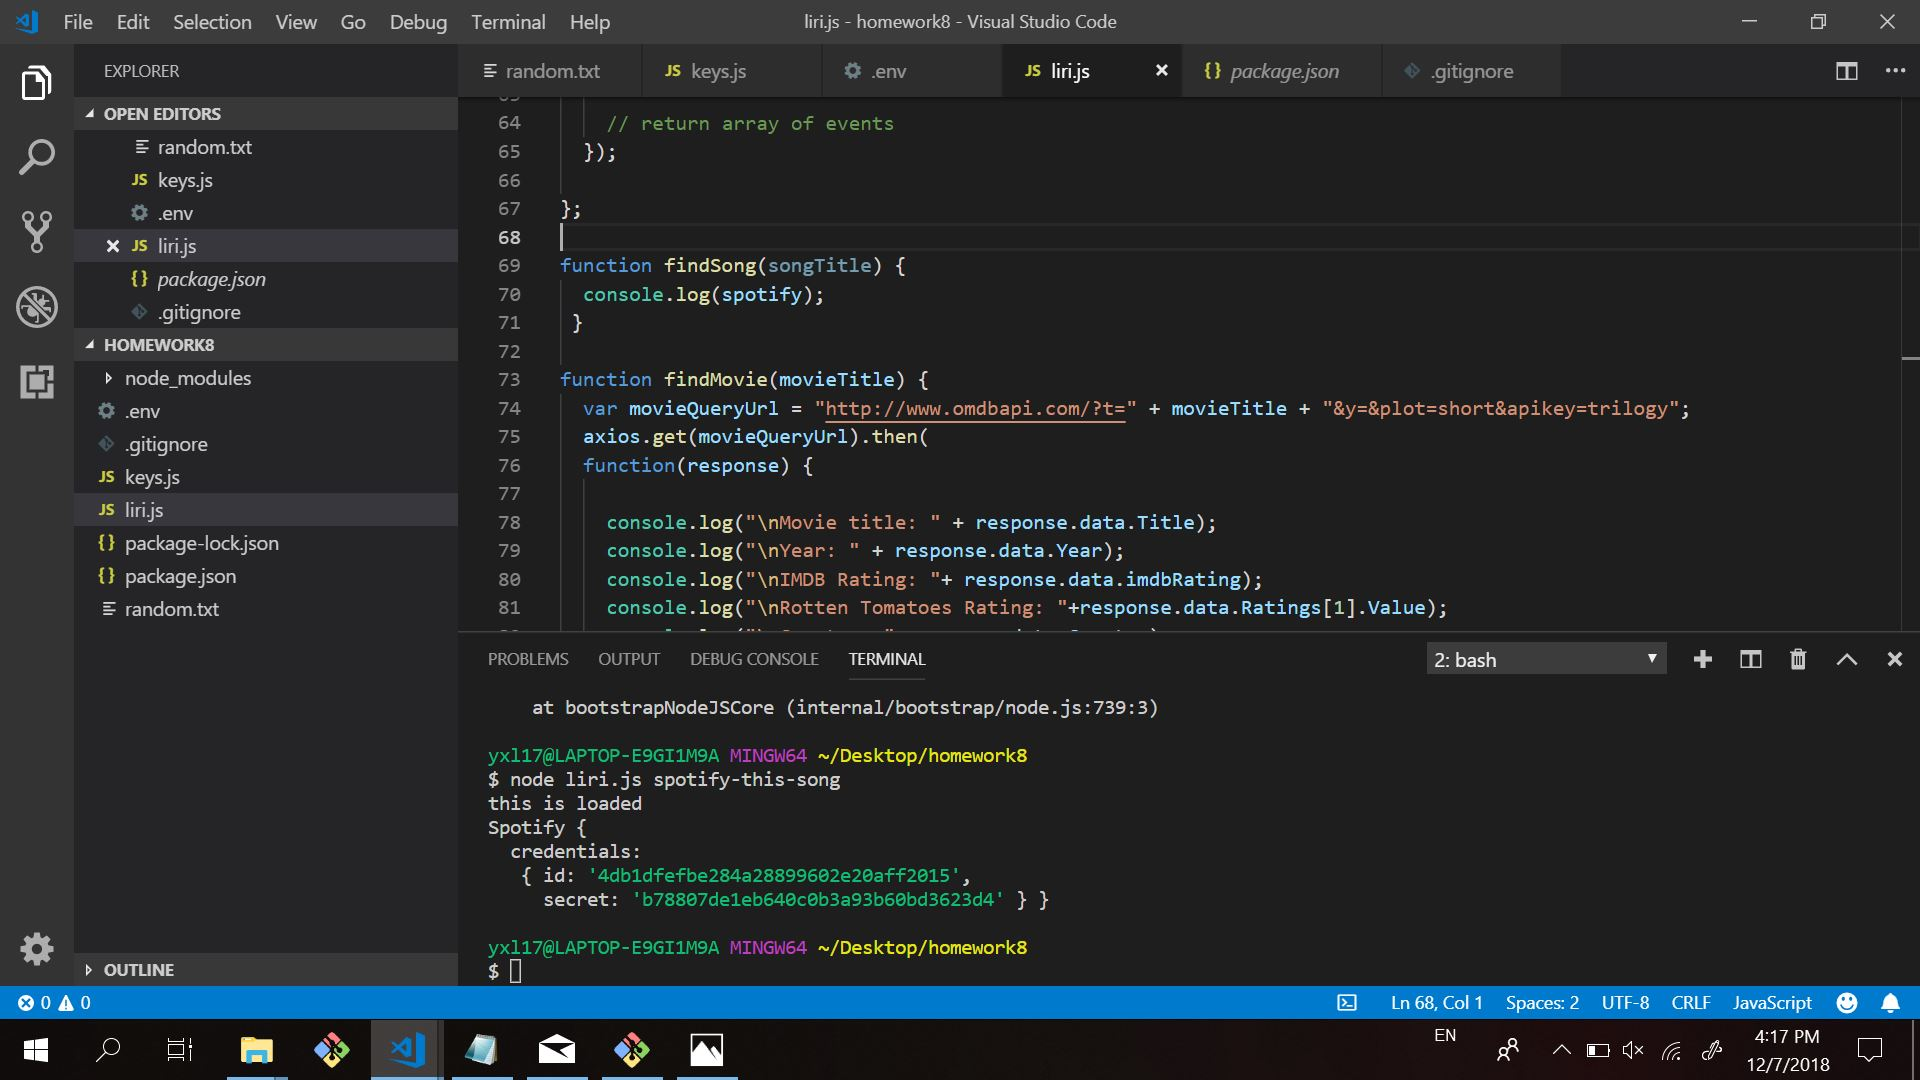
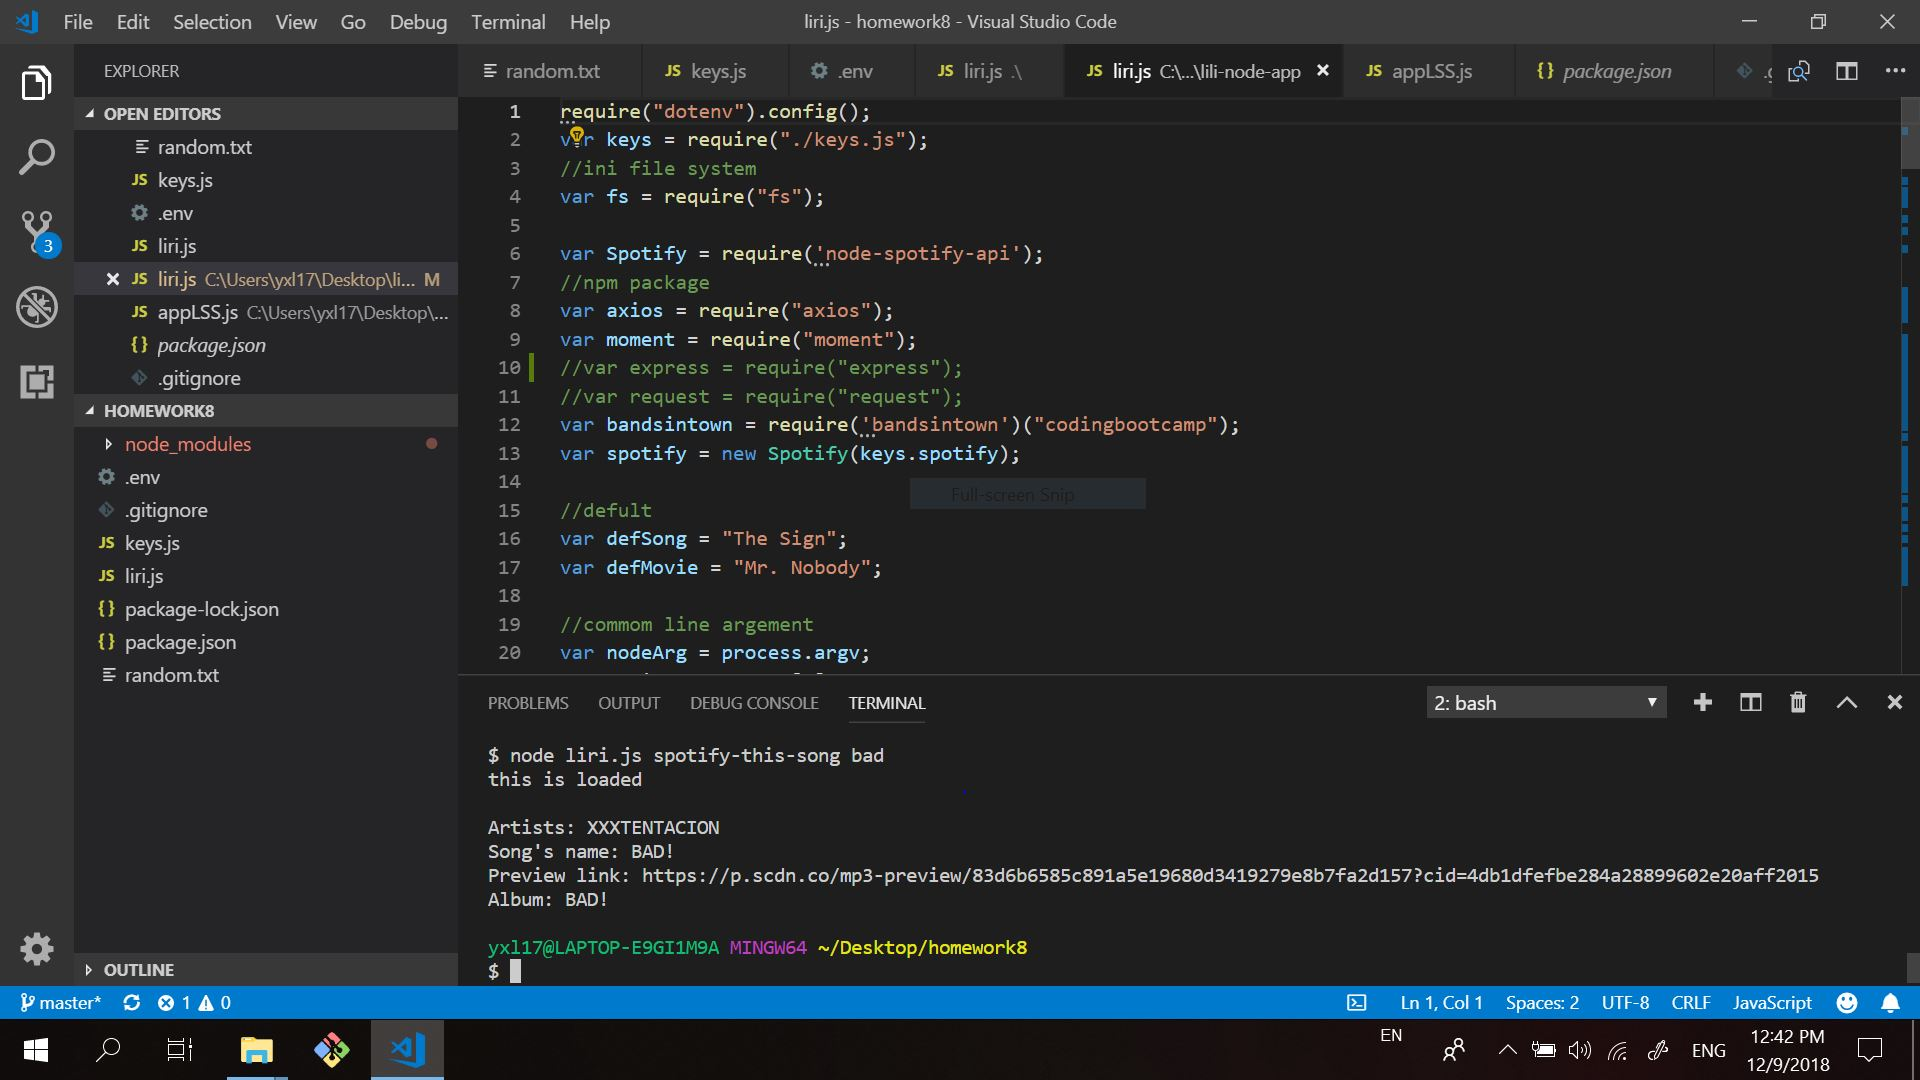
haha

diff --git a/liri.js b/liri.js
@@ -7,6 +7,7 @@ var Spotify = require('node-spotify-api');
 //npm package
 var axios = require("axios");
 var moment = require("moment");
+//var express = require("express");
 //var request = require("request");
 var bandsintown = require('bandsintown')("codingbootcamp");
 var spotify = new Spotify(keys.spotify);
@@ -20,30 +21,26 @@ var nodeArg = process.argv;
 var action = nodeArg[2];
 
 //empty array to load data
-var Name ="";
+var Name = "";
 
- if (nodeArg.length>=4)
- {
-   for (var i = 3; i < nodeArg.length; i++) {
-     Name = Name + nodeArg[i] + " ";
-   }
- }
- 
+if (nodeArg.length >= 4) {
+  for (var i = 3; i < nodeArg.length; i++) {
+    Name = Name + nodeArg[i] + " ";
+  }
+}
+
 switch (action) {
   case "concert-this":
-    if (nodeArg.length==3)
-    {console.log("Please specify Concert name!");}
-    else{findConcert(Name);}
+    if (nodeArg.length == 3) { console.log("Please specify Concert name!"); }
+    else { findConcert(Name); }
     break;
   case "spotify-this-song":
-  if (nodeArg.length==3)
-  {Name = Name+defSong;}
+    if (nodeArg.length == 3) { Name = Name + defSong; }
     findSong(Name);
     break;
 
   case "movie-this":
-  if (nodeArg.length==3)
-  {Name = Name+defMovie;}
+    if (nodeArg.length == 3) { Name = Name + defMovie; }
     findMovie(Name);
     break;
   case "do-what-it-says":
@@ -54,64 +51,89 @@ switch (action) {
 function findConcert(artist) {
   console.log(artist);
   bandsintown
-  .getArtistEventList(artist,"all")
-  .then(function(events) {
-   // console.log(events);
-    console.log(events[0].venue.name);
-    console.log(events[0].venue.city);
-    console.log(moment(events[0].datetime).format("MM/DD/YYYY"));
-  
-    // return array of events
-  });
-  
+    .getArtistEventList(artist, "all")
+    .then(function (events) {
+      // console.log(events);
+      console.log(events[0].venue.name);
+      console.log(events[0].venue.city);
+      console.log(moment(events[0].datetime).format("MM/DD/YYYY"));
+
+      // return array of events
+    });
+
 };
 
 function findSong(songTitle) {
-  console.log(spotify);
- }
+    spotify.search({type:'track',query:songTitle})
+    .then(function (data){
+    //console.log(data);
+    //data.tracks.items.forEach(function(element){
+    //console.log(element.artists[0].name); 
+    //console.log("\nArtists: " + element.artists[0].name);
+    //console.log("Song's name: " + element.name);
+    //console.log("Preview link: " + element.preview_url);
+    //console.log("Album: " + element.album.name);
+    
+    //});  
+     console.log("\nArtists: " + data.tracks.items[0].artists[0].name);
+     console.log("Song's name: " + data.tracks.items[0].name);
+     console.log("Preview link: " + data.tracks.items[0].preview_url);
+     console.log("Album: " + data.tracks.items[0].album.name);
+//     console.log(spotify);
+    })
+    .catch(function(err){console.log(err);throw err;
+    });
+  };
+    //function (response) {
+    //console.log("\nArtists: " + data.tracks.items[0].artists[0].name);
+    //console.log("Song's name: " + data.tracks.items[0].name);
+    //console.log("Preview link: " + data.tracks.items[0].preview_url);
+    // console.log("Album: " + data.tracks.items[0].album.name);
+     //console.log(spotify);
 
-function findMovie(movieTitle) { 
+
+function findMovie(movieTitle) {
   var movieQueryUrl = "http://www.omdbapi.com/?t=" + movieTitle + "&y=&plot=short&apikey=trilogy";
   axios.get(movieQueryUrl).then(
-  function(response) {
-    
-    console.log("\nMovie title: " + response.data.Title);
-    console.log("\nYear: " + response.data.Year);
-    console.log("\nIMDB Rating: "+ response.data.imdbRating);
-    console.log("\nRotten Tomatoes Rating: "+response.data.Ratings[1].Value);
-    console.log("\nCountry: "+response.data.Country);
-    console.log("\nLanguage: "+response.data.Language); 
-    //console.log(response.data)
-    ;}
-)};
+    function (response) {
 
-function fsCommand() 
-{
-  fs.readFile("random.txt", "utf8", function(error, data) {
+      console.log("\nMovie title: " + response.data.Title);
+      console.log("\nYear: " + response.data.Year);
+      console.log("\nIMDB Rating: " + response.data.imdbRating);
+      console.log("\nRotten Tomatoes Rating: " + response.data.Ratings[1].Value);
+      console.log("\nCountry: " + response.data.Country);
+      console.log("\nLanguage: " + response.data.Language);
+      //console.log(response.data)
+      ;
+    }
+  )
+};
 
-  // If the code experiences any errors it will log the error to the console.
-  if (error) {
-    return console.log(error);
-  }
+function fsCommand() {
+  fs.readFile("random.txt", "utf8", function (error, data) {
 
-  // We will then print the contents of data
-  console.log(data);
+    // If the code experiences any errors it will log the error to the console.
+    if (error) {
+      return console.log(error);
+    }
 
-  // Then split it by commas (to make it more readable)
-  var dataArr = data.split(",");
+    // We will then print the contents of data
+    console.log(data);
 
-  // We will then re-display the content as an array for later use.
-  console.log(dataArr);
-  switch (dataArr[0])
-  {
-  case "movie-this":
-  findMovie(dataArr[1]);
-  break;
-  case "concert-this":
-  findConcert(dataArr[1]);
-  break;
-  }
-});  
+    // Then split it by commas (to make it more readable)
+    var dataArr = data.split(",");
+
+    // We will then re-display the content as an array for later use.
+    console.log(dataArr);
+    switch (dataArr[0]) {
+      case "movie-this":
+        findMovie(dataArr[1]);
+        break;
+      case "concert-this":
+        findConcert(dataArr[1]);
+        break;
+    }
+  });
 
 }
 
